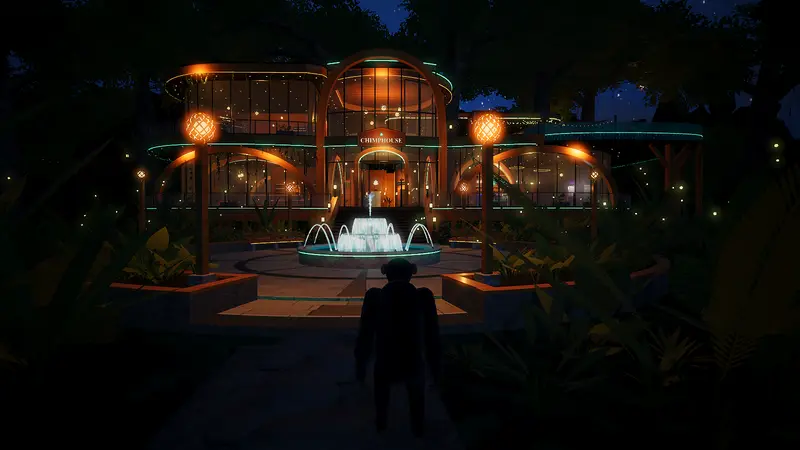
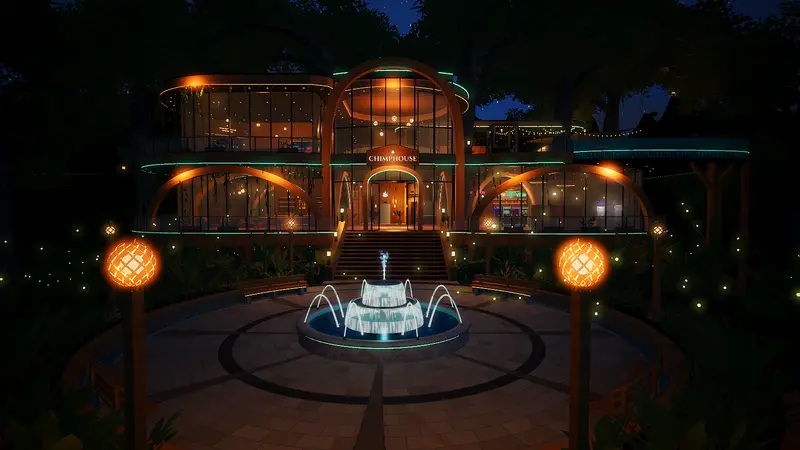
Landing page: room photos from the fly-in camera, no chimp in the picture
Every room, the courtyard and the night front are now seen from up high or
wide with the fly-in camera instead of a chimp standing in each room: the pool
as a bird's-eye view of the whole terrace, the theatre from the back row, the
Game Room over its cabinets and TV, the bridge from the jungle beside it.
tools/site-shots.mjs holds each pose so the photos can be taken again; the
"Your chimp" photo and the aerial view are unchanged. Alt text follows the
new views.

diff --git a/src/site/rooms.ts b/src/site/rooms.ts
@@ -31,7 +31,7 @@ export const ROOMS: Room[] = [
     ],
     things: ["Fountain and planted paths", "Broad timber stairs", "Lanterns after dark"],
     concept: "front",
-    alt: "A chimp standing in the front courtyard, the fountain and the curved timber front of ChimpHouse ahead",
+    alt: "The front courtyard from above the path: the fountain in its round paved court, the broad timber stairs and the curved timber front of ChimpHouse",
   },
   {
     id: "entry",
@@ -44,7 +44,7 @@ export const ROOMS: Room[] = [
     ],
     things: ["Emblem rug welcome area", "Atrium open to both floors", "Stair and lift upstairs"],
     concept: "entry",
-    alt: "A chimp at the glass front doors looking into the entry hall, its emblem rug and the gallery above",
+    alt: "The entry hall just inside the front doors: the botanical-emblem rug, the tree trunks and the gallery ringing the atrium above",
   },
   {
     id: "lounge",
@@ -57,7 +57,7 @@ export const ROOMS: Room[] = [
     ],
     things: ["Curved teal sofa", "Refreshments counter", "Jungle views"],
     concept: "lounge",
-    alt: "A chimp in the arrival lounge, with round tables, a woven rug and the refreshments counter behind",
+    alt: "The Arrival Lounge from above: the curved teal sofa along the glass wall, round tables on a woven rug and the refreshments counter beside the tree trunk",
   },
   {
     id: "game",
@@ -70,7 +70,7 @@ export const ROOMS: Room[] = [
     ],
     things: ["Arcade cabinets", "Game TV", "Pinball", "Claw machine", "Air hockey", "Foosball"],
     concept: "game",
-    alt: "A chimp in the Game Room by the curved teal sofa, the big TV, pinball tables and the claw machine",
+    alt: "The Game Room from above: arcade cabinets under the ChimpVibe sign, pinball, air hockey and foosball, and the curved teal sofa facing the big TV",
   },
   {
     id: "trading",
@@ -83,7 +83,7 @@ export const ROOMS: Room[] = [
     ],
     things: ["Simulated market wall", "Multi-monitor desks", "Order book and tape"],
     concept: "trading",
-    alt: "A chimp in the Trading Room facing the big Simulated Market chart and the trading desks",
+    alt: "The Trading Room from above: the big Simulated Market screen over the trading desks and their monitors",
   },
   {
     id: "mixchimp",
@@ -96,7 +96,7 @@ export const ROOMS: Room[] = [
     ],
     things: ["Production desk", "Drum kit and guitars", "Vocal booth"],
     concept: "mixchimp",
-    alt: "A chimp in the MixChimp Studio between the production desk and the drum kit, under the MixChimp sign",
+    alt: "The MixChimp Studio from above: the production desk under the lit MixChimp sign and the drum kit on its rug by the glass wall",
   },
   {
     id: "gallery",
@@ -109,7 +109,7 @@ export const ROOMS: Room[] = [
     ],
     things: ["Atrium overlook", "Signs to every room", "Lift and stair"],
     concept: "gallery",
-    alt: "A chimp on the upper gallery beside the round glass railing around the atrium",
+    alt: "The upper gallery from above: the round glass railing around the atrium, the emblem rug far below and the signs to the rooms",
   },
   {
     id: "showroom",
@@ -122,7 +122,7 @@ export const ROOMS: Room[] = [
     ],
     things: ["Submission wall", "Featured build screen", "Host desk and audience"],
     concept: "showroom",
-    alt: "A chimp in the Community Builds Showroom near the featured build screen and the red firetruck model",
+    alt: "The Community Builds Showroom from above: the submission wall, the featured build screen, the red firetruck model and teal sofas round a woven rug",
   },
   {
     id: "theatre",
@@ -135,7 +135,7 @@ export const ROOMS: Room[] = [
     ],
     things: ["Big screen", "YouTube and live streams", "Shared remotes"],
     concept: "theatre",
-    alt: "A chimp in the theatre between rows of teal sofas, facing the big ChimpHouse Theatre screen",
+    alt: "The theatre from the back row: two rows of teal sofas facing the big ChimpHouse Theatre screen and its speakers",
   },
   {
     id: "bar",
@@ -148,7 +148,7 @@ export const ROOMS: Room[] = [
     ],
     things: ["Curved bar", "Sofas round a fire pit", "Open to the pool"],
     concept: "poolbar",
-    alt: "A chimp standing by the fire pit and teal sofas, the Canopy Bar behind",
+    alt: "The Canopy Bar & Lounge: the bar with its stools and glowing shelves under the Canopy Bar sign, teal sofas and armchairs round low tables, and the treetops beyond",
   },
   {
     id: "pool",
@@ -160,7 +160,7 @@ export const ROOMS: Room[] = [
       "At night the pool glows cyan against the amber bar and the mint lights of the house.",
     ],
     things: ["Infinity pool", "Loungers", "Canopy views"],
-    alt: "A chimp wading in the turquoise pool, the Canopy Bar and the jungle beyond",
+    alt: "A bird's-eye view of the pool terrace: the turquoise infinity pool with its floats, loungers along the water and sofas round the fire pits",
   },
   {
     id: "bridge",
@@ -173,6 +173,6 @@ export const ROOMS: Room[] = [
     ],
     things: ["Suspension bridge", "Side entrance", "Views through the leaves"],
     concept: "bridge",
-    alt: "A chimp crossing the canopy bridge towards the side entrance of ChimpHouse",
+    alt: "The canopy bridge seen from the jungle beside it, its timber deck and cable handrails spanning the treetops to the side entrance of ChimpHouse",
   },
 ];
